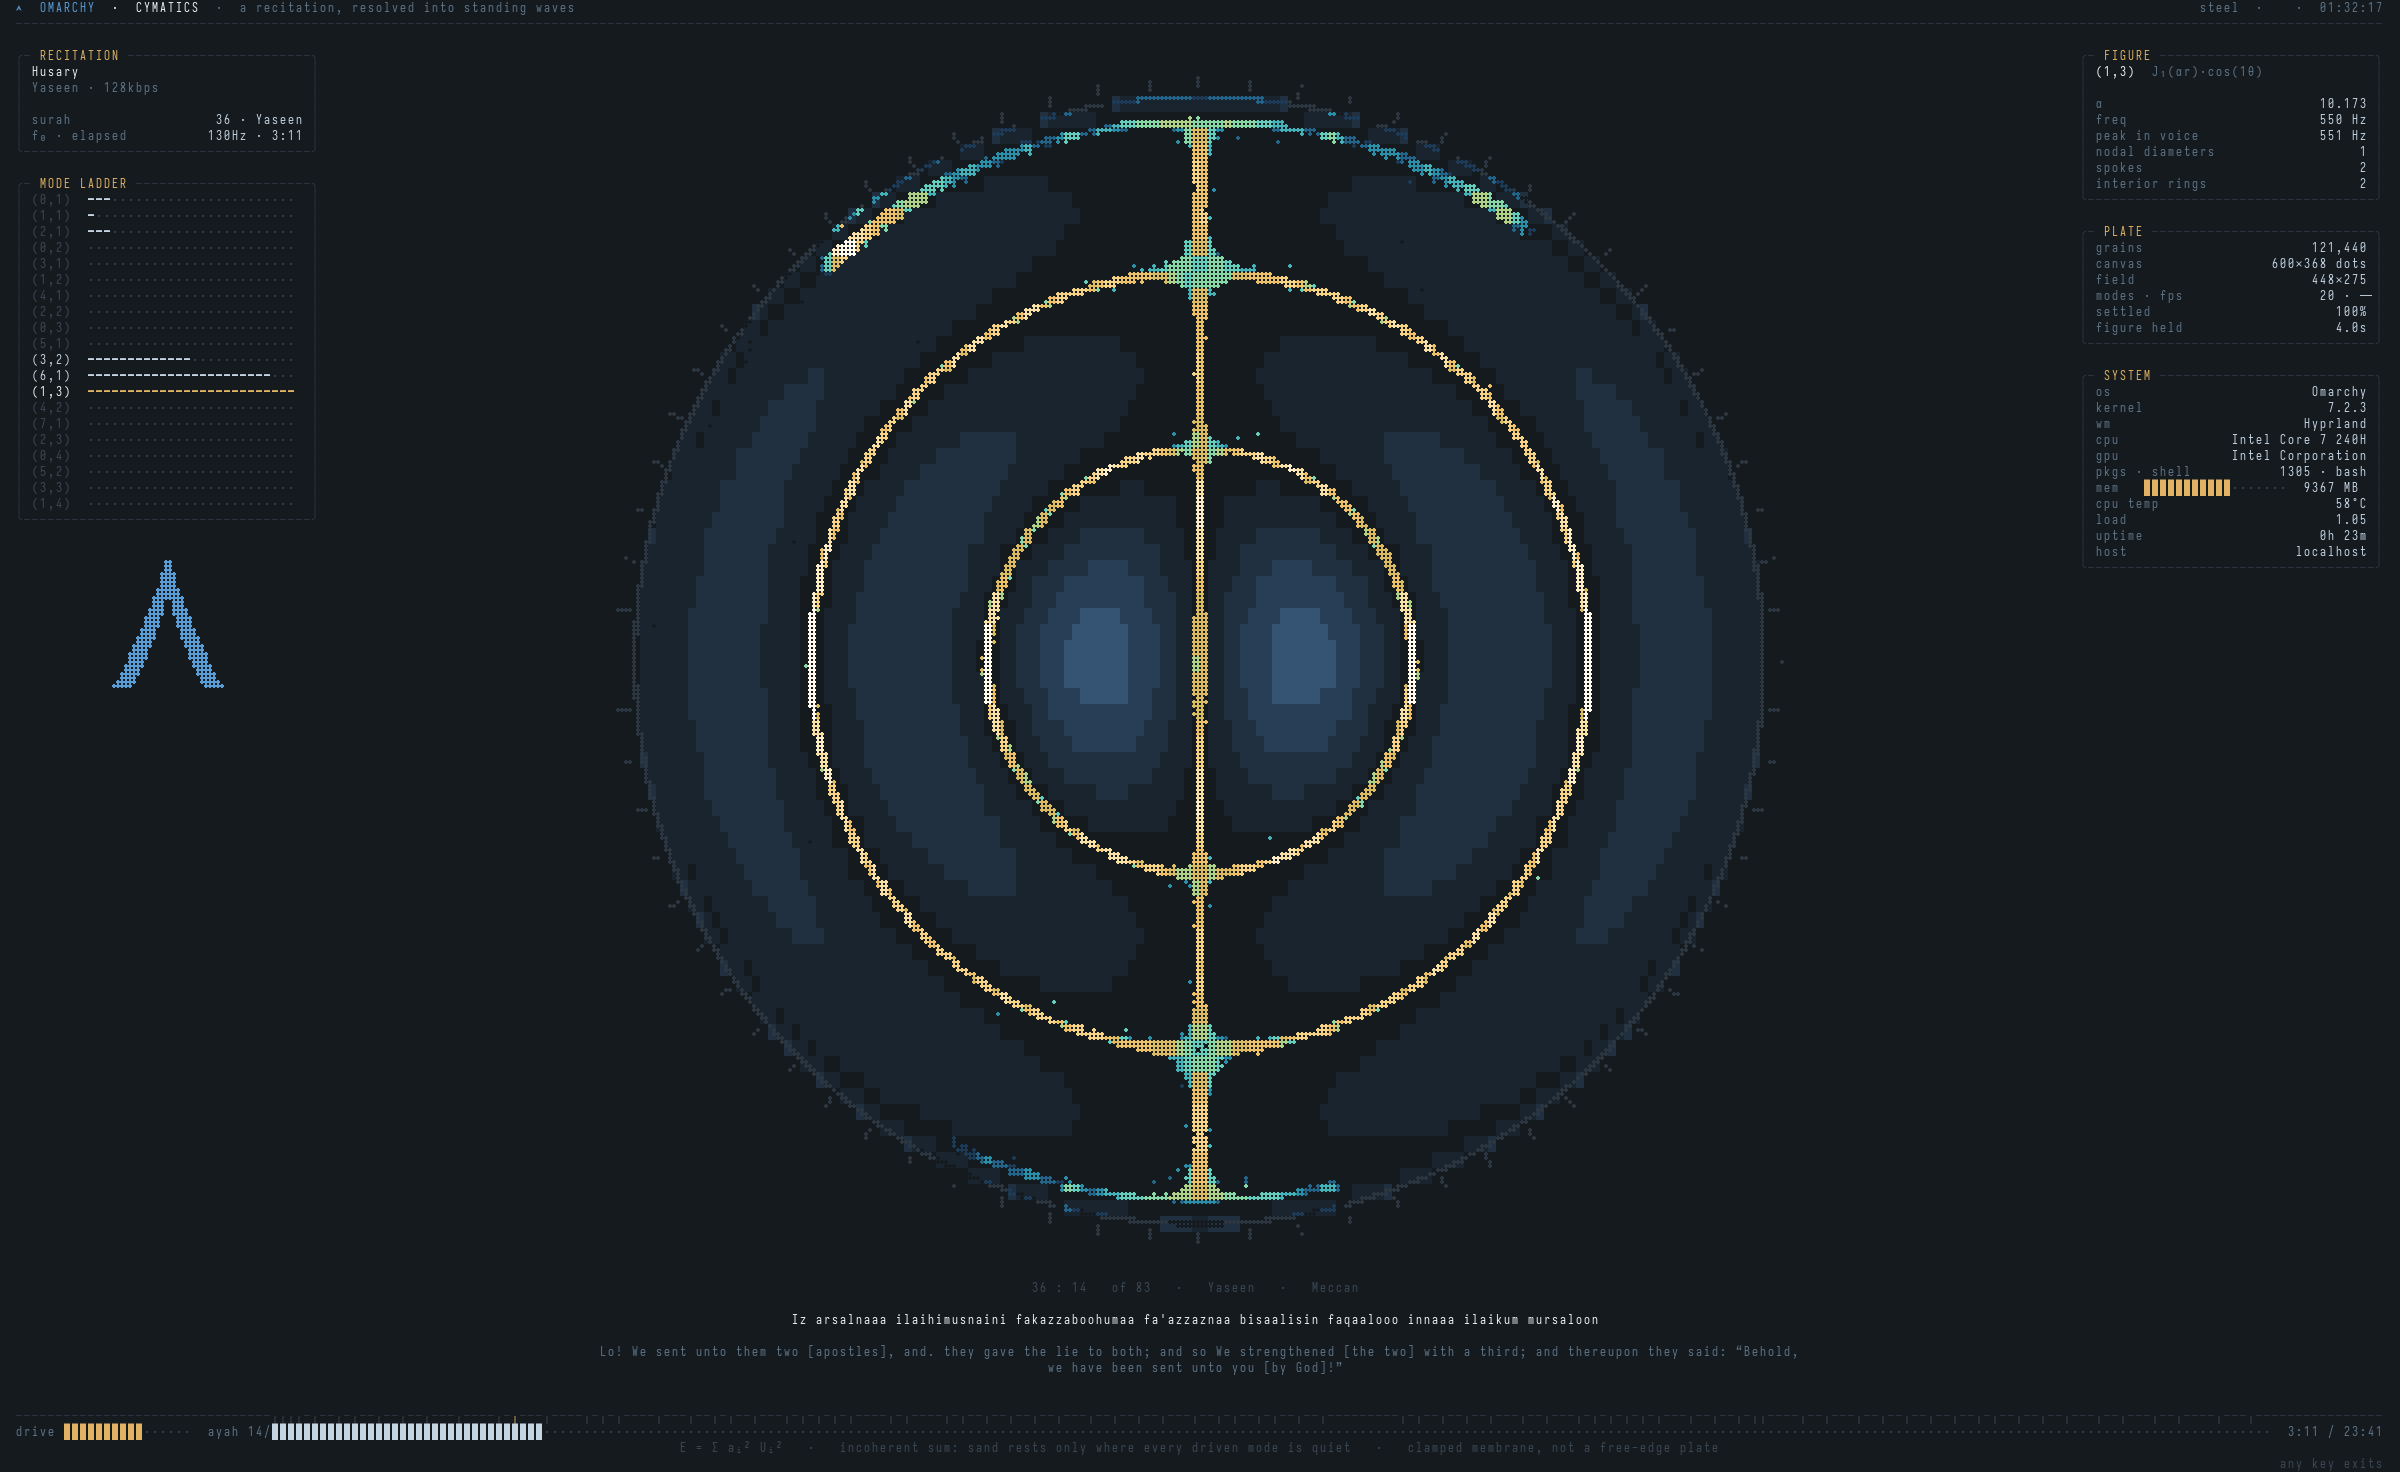
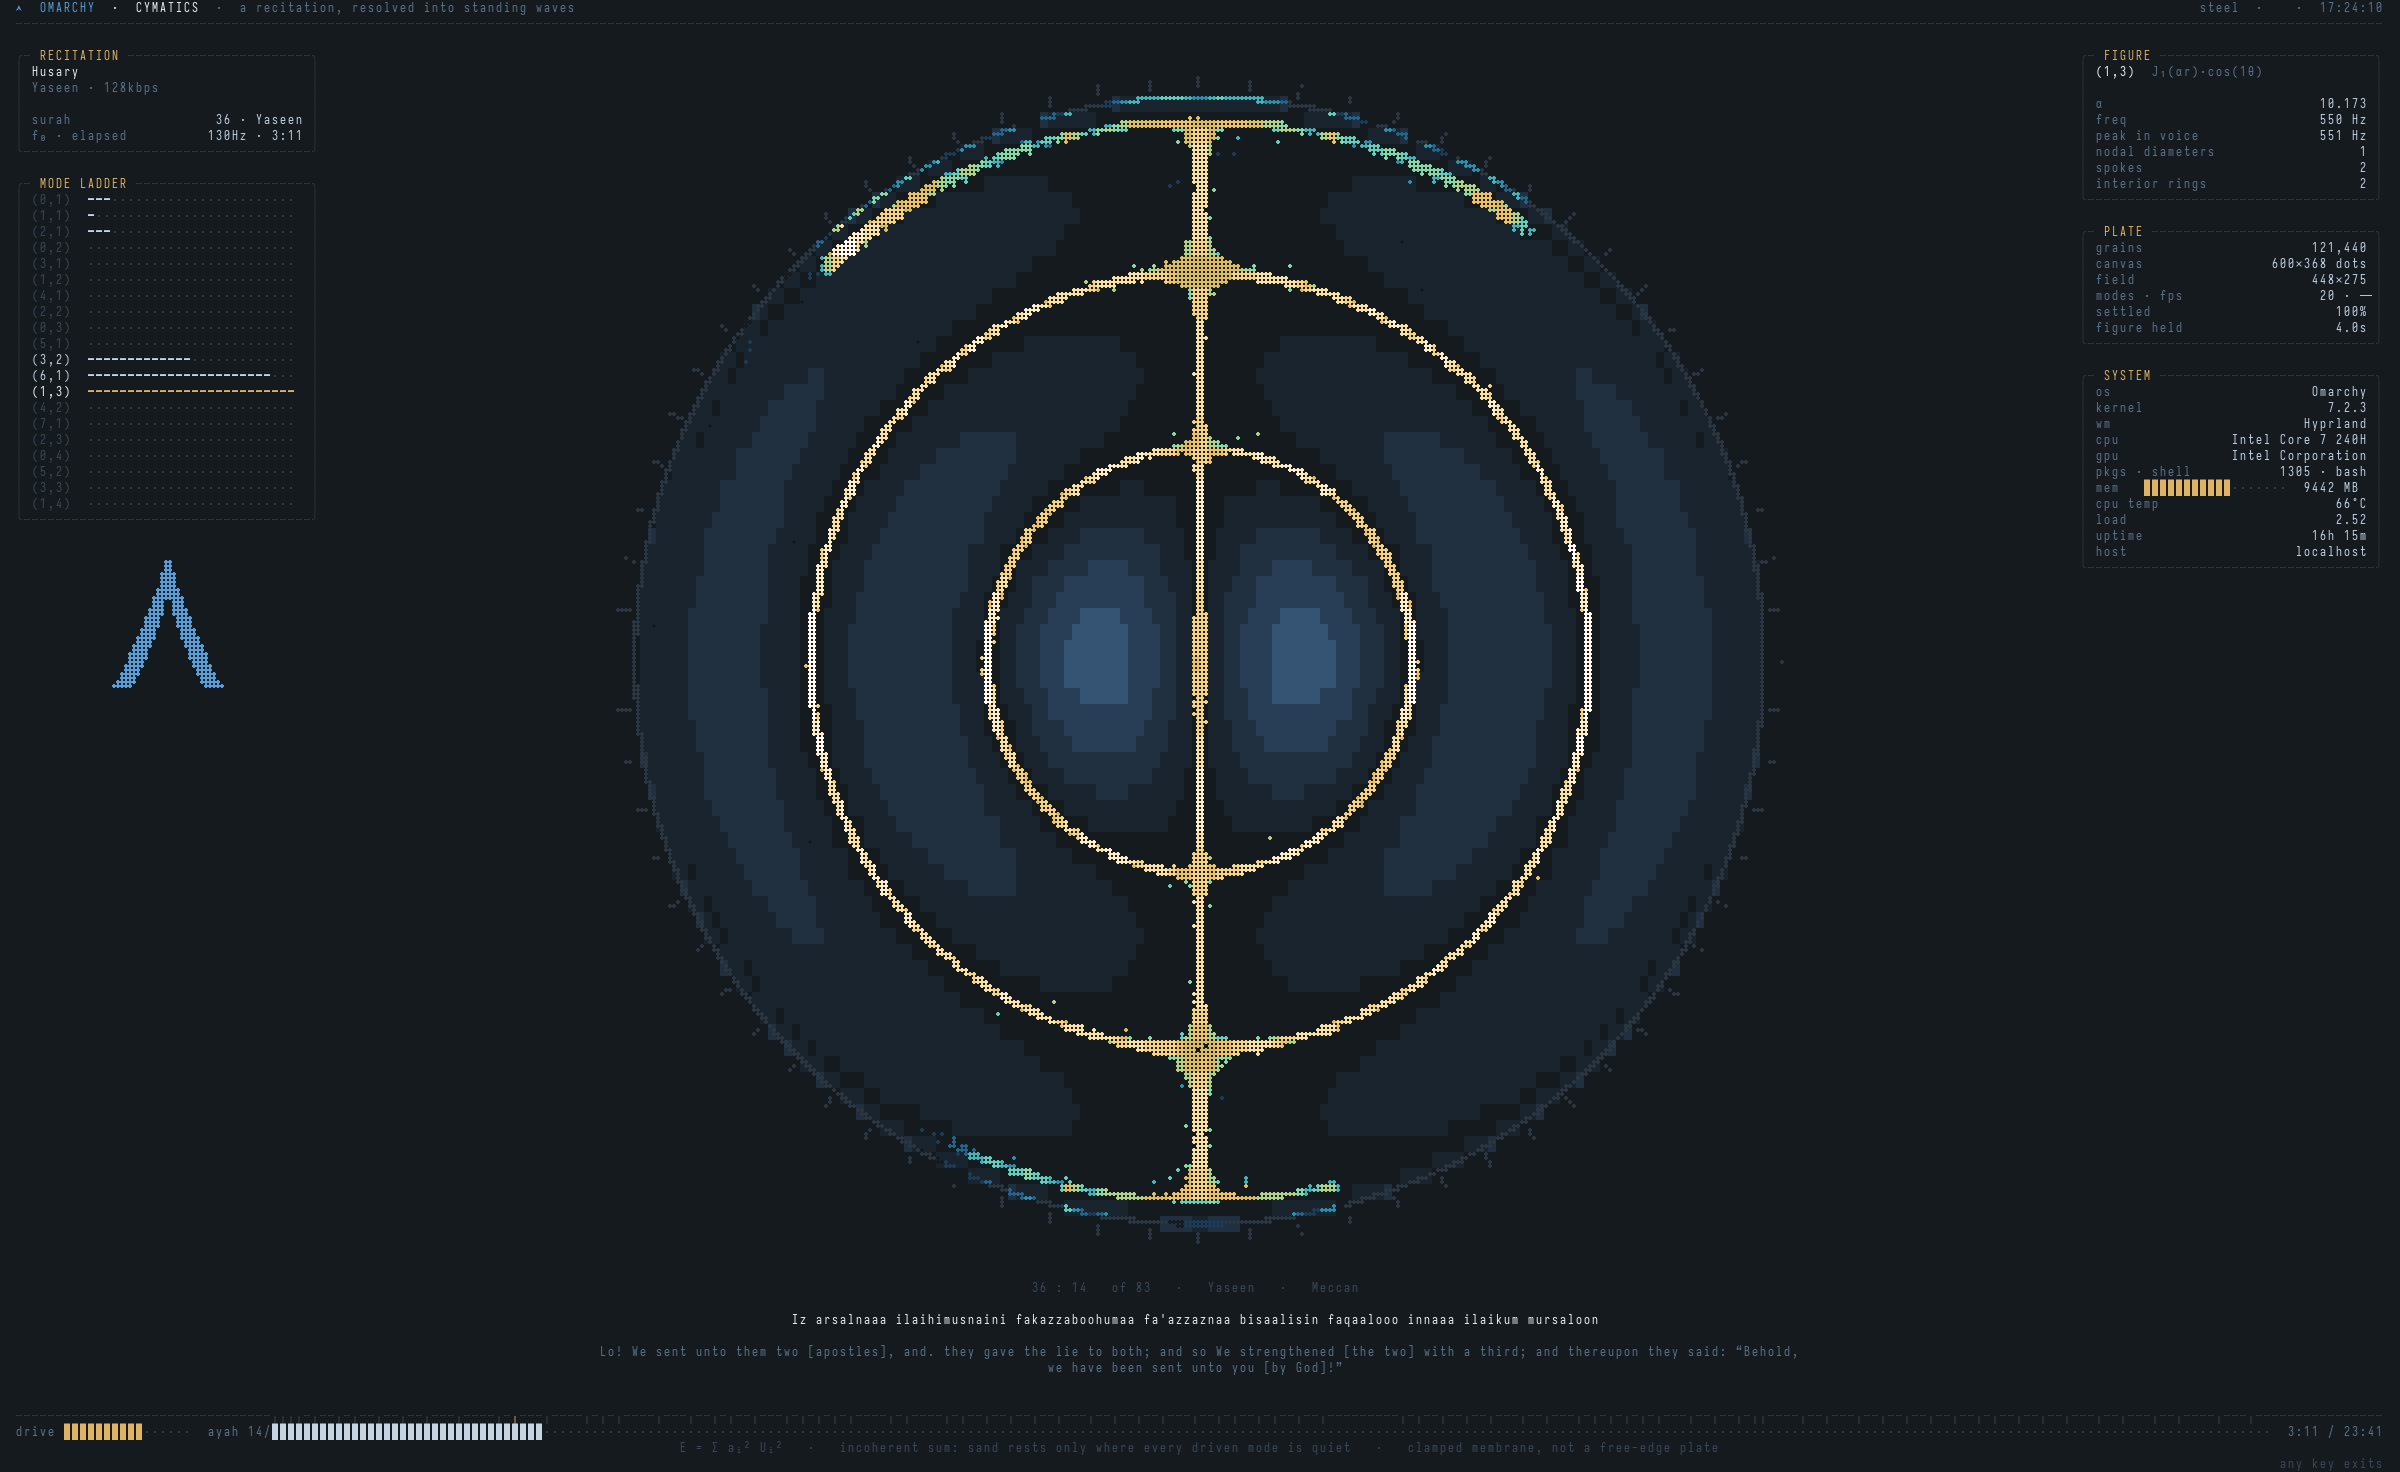
brighten figure lines by widening the curve, not by moving the reference
Live, a cell sitting on a nodal line averaged level 5.6 of 13 -- the boundary
where the ramp turns from teal to gold -- so live figures read cold next to the
settled --dump stills.

The obvious suspect was the brightness reference: it is the 99th percentile of
every cell holding any density, so the caked rim and the crossings set the
exposure. Measured over 15s of real playback, all three ways of narrowing it made
lines DIMMER, not brighter:

    reference from dens > 0 (current)          line level 6.4
    reference from dens >= 0.35                line level 5.8
    reference from dens >= 0.35, rim excluded  line level 5.5

because the faint cells being excluded were holding the percentile down. Not
changed, on the measurement.

The curve was the lever. Widening the log's span (12 -> 40) and easing it with a
0.8 exponent lifts the middle without spending the top:

    current p99 K12    line 5.6   warm 12.5%   pure white  2.5%
    p99 K40 g0.8       line 7.2   warm 22.0%   pure white  2.6%
    p97 K40            line 8.3   warm 26.8%   pure white  6.9%
    p95 K24            line 8.9   warm 29.0%   pure white 11.0%

The last two reach further but spend white, and white is the only level that says
"a crossing" rather than "bright". Pure white is unchanged at 2.6%.

docs images regenerated with the new curve, headlessly and anonymised.

Claude-Session: https://claude.ai/code/session_014j8H8XEm9RuzgCAzoYXhQK

diff --git a/src/screensaver.py b/src/screensaver.py
@@ -704,8 +704,18 @@ class Screen:
             ref = float(np.percentile(lit, 99.0))
             self.dref = ref if self.dref is None else self.dref * 0.88 + ref * 0.12
         ref = max(12.0, self.dref if self.dref else 12.0)
-        a = 12.0 / ref
-        norm = np.log1p(np.maximum(dens, 0.0) * a) / math.log1p(12.0)
+        # THE CURVE, not the reference. Live, a cell on a nodal line averaged level
+        # 5.6 of 13 -- the teal/gold boundary -- so figures read cold next to the
+        # settled --dump stills. Measured over 15s of real playback, three ways of
+        # moving the REFERENCE all made lines DIMMER (5.8, 5.5 against 5.6), because
+        # the faint cells they excluded were holding the percentile down. Widening
+        # the log's span and easing the curve raises the middle without spending the
+        # top: line cells 5.6 -> 7.2, lit cells in the warm half 12.5% -> 22.0%, and
+        # pure white unchanged at 2.6%, so white still means a crossing rather than
+        # "bright". A lower percentile reached 8.9 but put 11% of lit cells on white.
+        K = 40.0
+        a = K / ref
+        norm = (np.log1p(np.maximum(dens, 0.0) * a) / math.log1p(K)) ** 0.8
         np.clip(norm, 0.0, 1.0, out=norm)
         lv = (norm * (NLEV - 1) + 0.5).astype(np.uint8)
         if self.under is not None:
